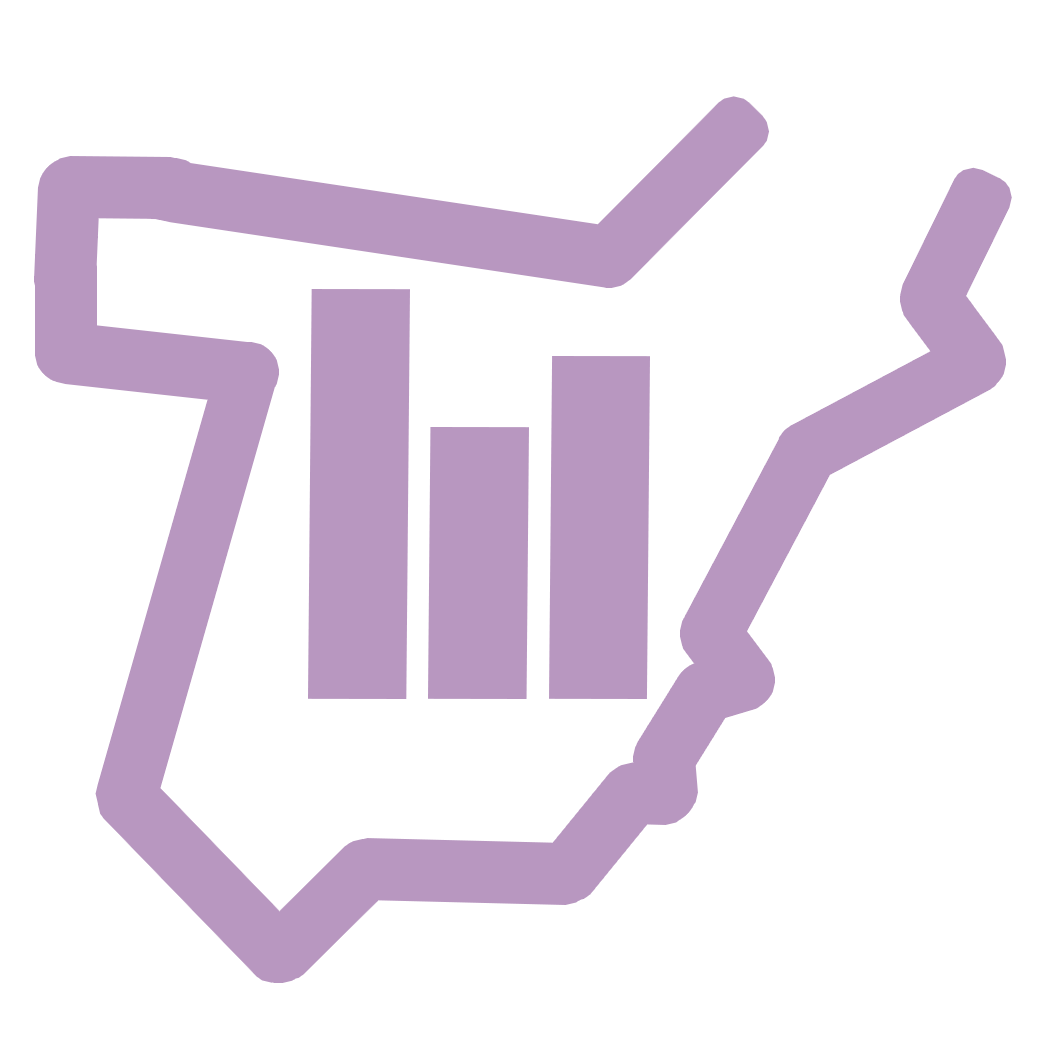
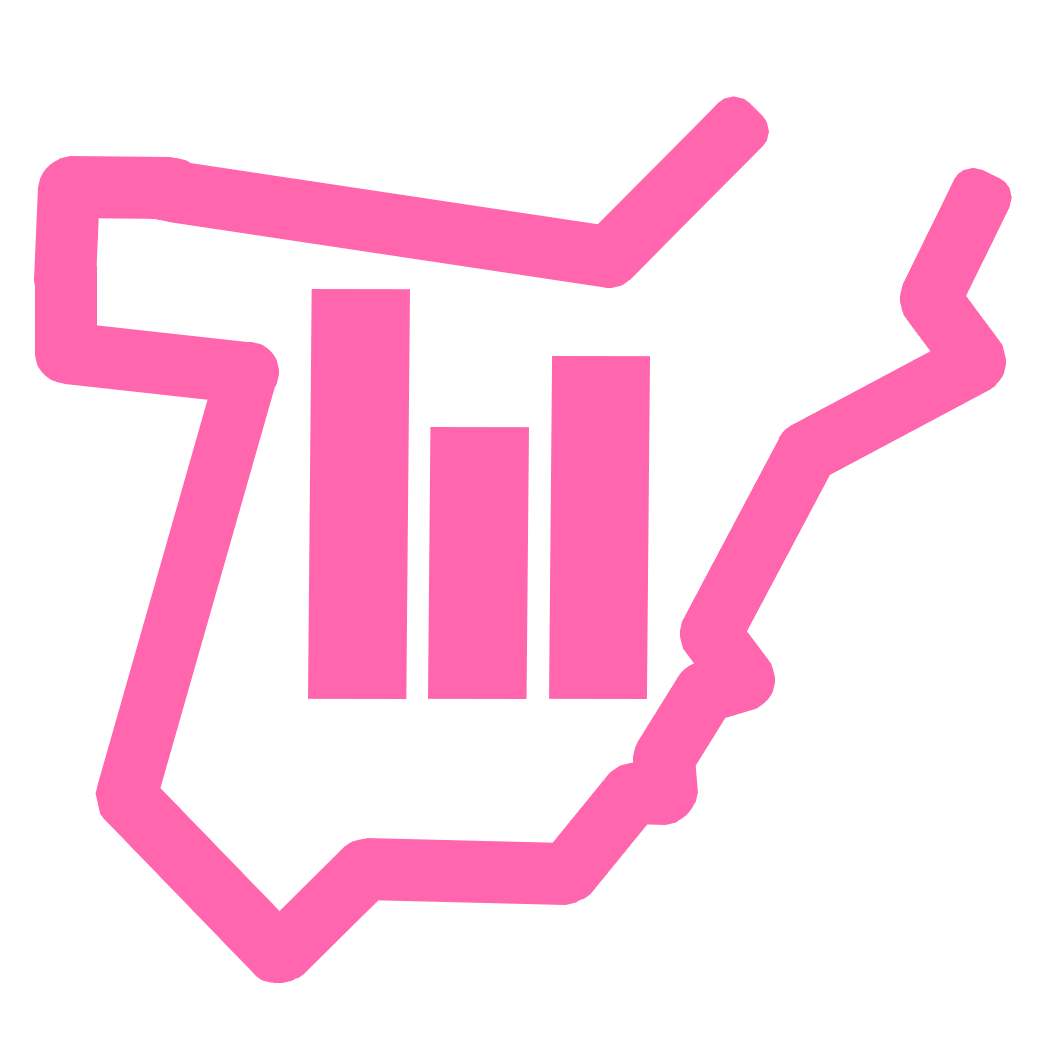
Aumentado el brillo del icono de cde

Changed region(s): [[0.0308, 0.0926, 0.9865, 0.9566]]

diff --git a/ROOT/tomcat/webapps/pentaho/mantle/search/css/buscador.css b/ROOT/tomcat/webapps/pentaho/mantle/search/css/buscador.css
@@ -308,11 +308,11 @@ input[type='submit'] {
 }
 .buscar_cde {
 	margin-left: 0px;
-	border-left: 6px solid #d6a0ce;
+	border-left: 6px solid #ff66ad;
 	display: block;
 	height: 100px;
 	background: #f1f1f1;
-	color: #d6a0ce !important;
+	color: #ff66ad !important;
 }
 .titulos {
 	font-size: 20px;
@@ -367,7 +367,7 @@ input[type='submit'] {
 	color: #de0000;
 }
 .buscar_cde .titulos {
-	color: #d6a0ce;
+	color: #ff66ad;
 }
 .resultado_buscar .description {
 	min-height: 20px;
@@ -406,8 +406,8 @@ input[type='submit'] {
 	border: 1px #de0000 solid;
 }
 .buscar_cde .tags i {
-	background: #d6a0ce;
-	border: 1px #d6a0ce solid;
+	background: #ff66ad;
+	border: 1px #ff66ad solid;
 }
 .repository_style {
 	border-left: 0px solid #ed7c36 !important;
